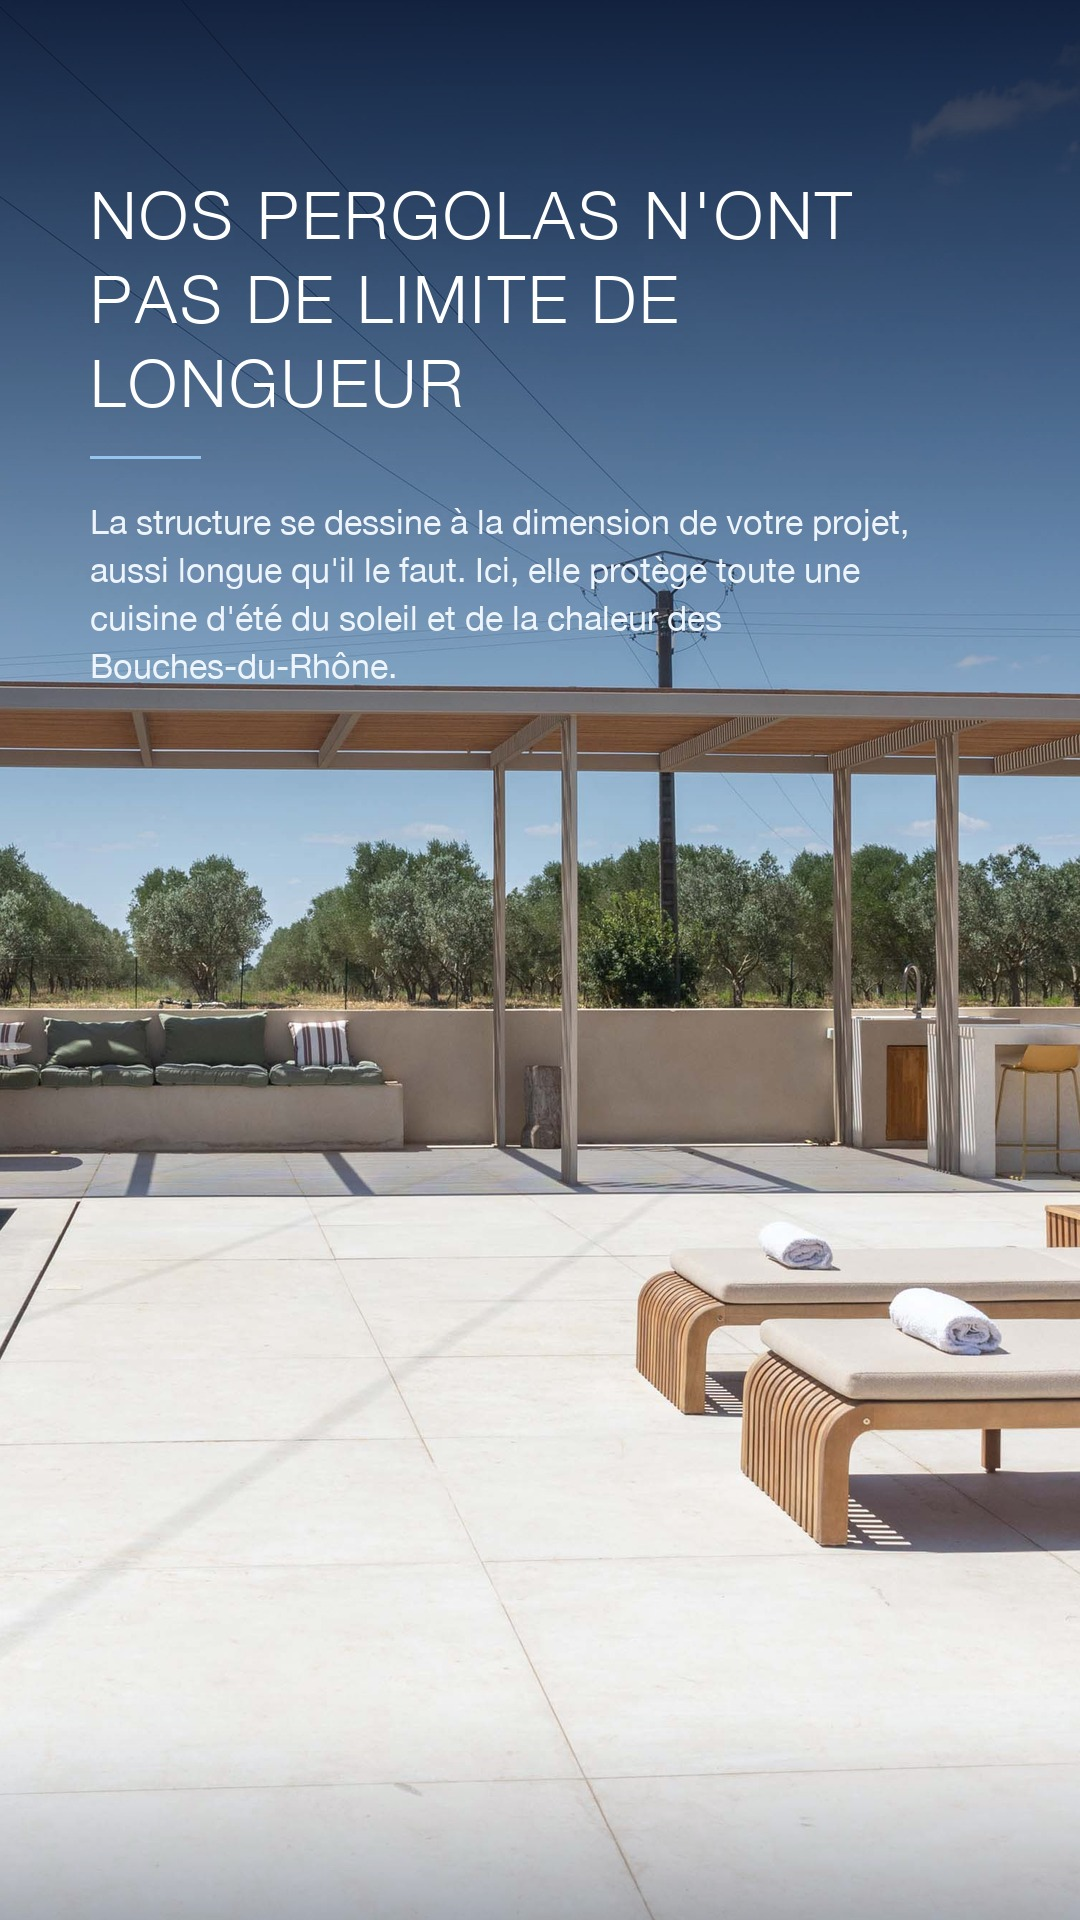
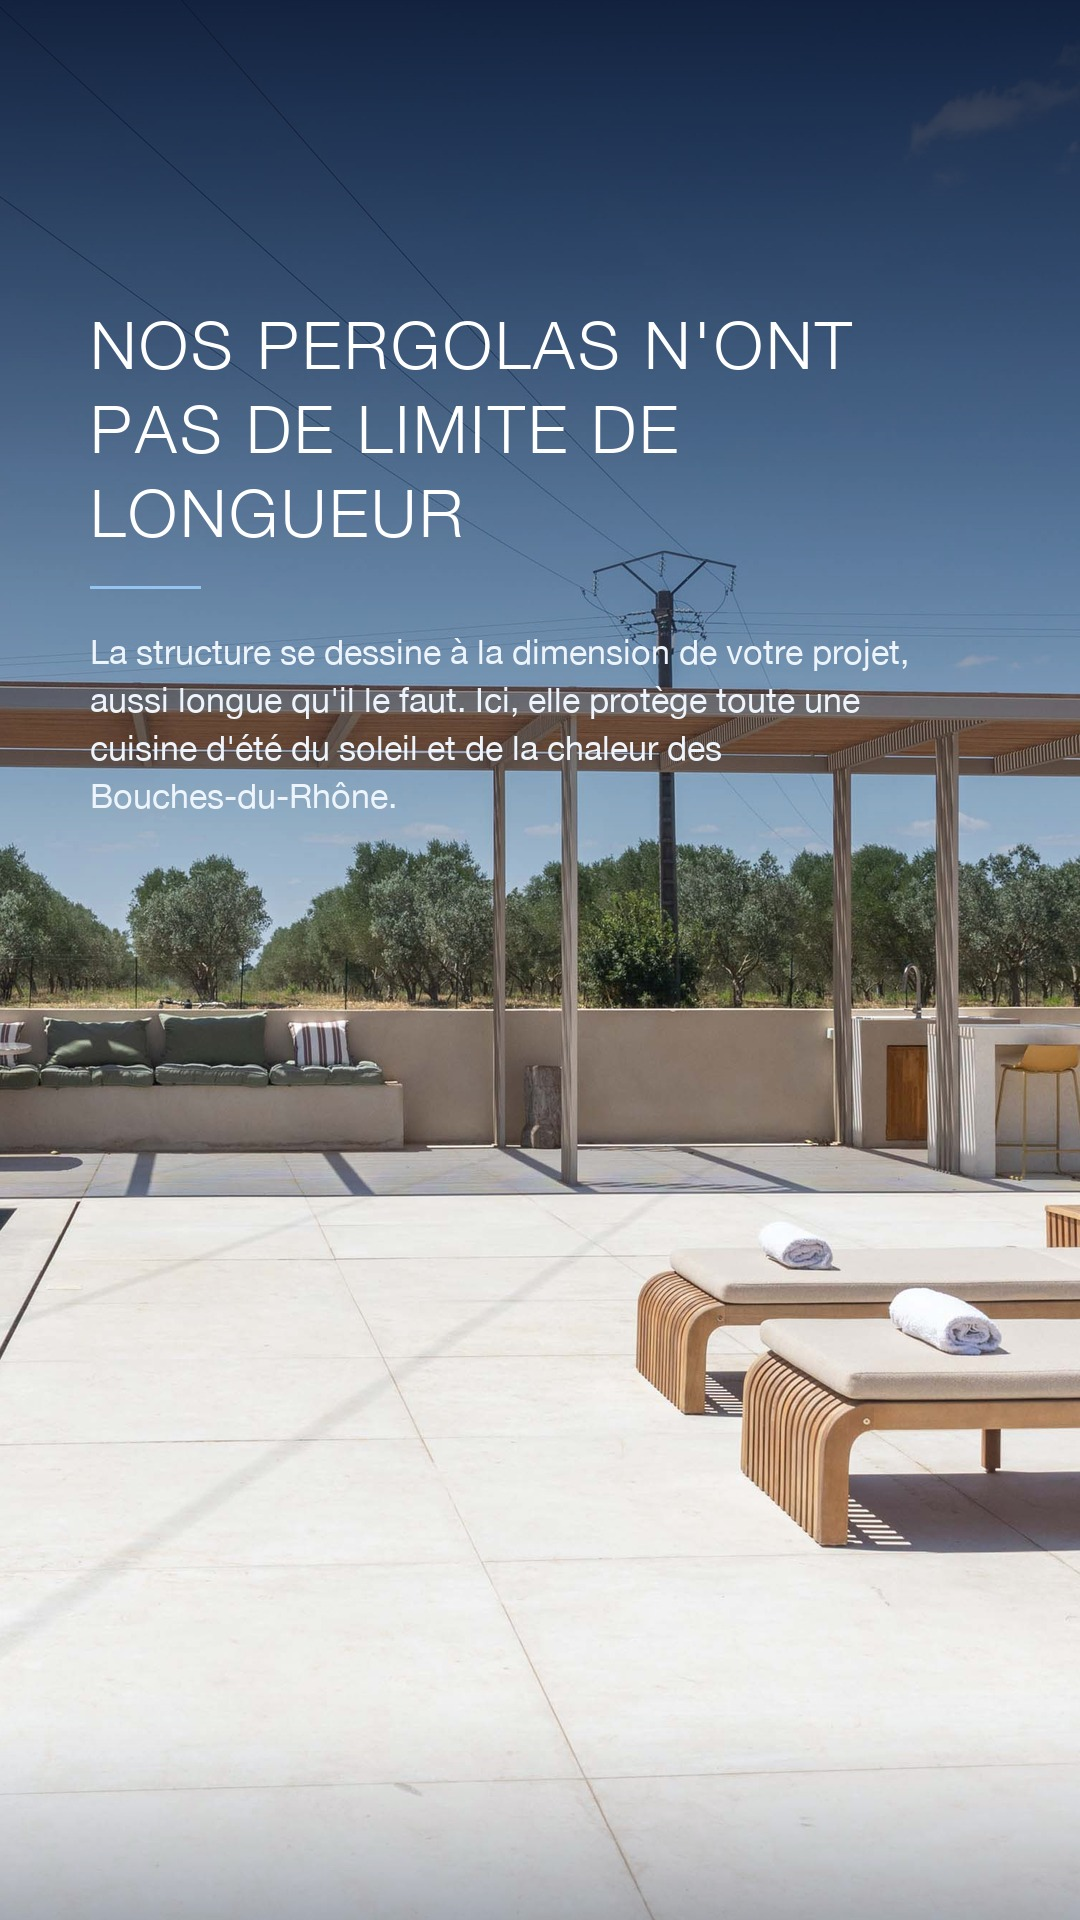
Stories #11 a #14 : le texte descend de 130 px
Sur un telephone, la barre de progression et la ligne de compte d'Instagram
mordaient sur le titre, qui partait a 175 px du haut. Tout le bloc descend de
130 px et le scrim s'etire d'autant, sinon les dernieres lignes se
retrouveraient sur la photo en clair et deviendraient illisibles.

Le texte etant incruste dans les JPG, les 4 maquettes sont regenerees depuis
leurs photos sources, retrouvees par appariement dans ~/Franck. Les 3 stories
standard sont reproduites au pixel pres par le generateur (ecart 0,00/255) ;
la #13, seule en mise en page liste, avait ete faite hors generateur : sa
geometrie et ses graisses (intitules Medium 38 interlettre a 2, descriptions
Regular 31, voile 10/30/67 a 150) sont relevees sur le fichier livre et
ajoutees au generateur, qui la reproduit desormais.

Le generateur ne regenere plus rien sans qu'on lui nomme les fichiers : les
stories deja publiees ont ete produites avant la descente et ne bougent pas.

Changed region(s): [[0.0611, 0.0938, 0.825, 0.4375]]

diff --git a/stories-maquettes/_generateur-stories.py b/stories-maquettes/_generateur-stories.py
@@ -9,6 +9,12 @@ Regular en écriture normale ; scrim sombre en haut pour la lisibilité ;
 surlignage possible d'un mot du titre en bleu Teck #0653A8 ; sortie 1080×1920.
 Un « \\n » dans le texte force un retour à la ligne. Aucune légende : le texte
 vit dans l'image. Réf : ../../DA-teck-amenagement.md et ../scripts-stories.md.
+
+17/08/2026 — DESCENTE. Le texte partait trop haut : sur un téléphone, la barre
+de progression et la ligne de compte d'Instagram mordaient sur le titre. Tout
+le bloc descend donc de 130 px, et le scrim s'étire d'autant, sinon les
+dernières lignes se retrouveraient sur la photo en clair. Les stories #11 à #14
+ont été régénérées à cette hauteur ; toute nouvelle story la reprend.
 """
 import os
 from PIL import Image, ImageDraw, ImageFont, ImageOps
@@ -16,8 +22,10 @@ from PIL import Image, ImageDraw, ImageFont, ImageOps
 OUT = os.path.dirname(os.path.abspath(__file__))
 FRANCK = os.path.expanduser("~/Franck")
 HN = "/System/Library/Fonts/HelveticaNeue.ttc"
-LIGHT, REG = 7, 0
+LIGHT, REG, MEDIUM = 7, 0, 10
 BLEU, CLAIR = (6, 83, 168), (150, 196, 240)
+BLANC, INFO = (255, 255, 255), (238, 244, 252)
+DESCENTE = 130
 
 
 def F(size, index=REG):
@@ -47,12 +55,13 @@ def track(d, x, y, txt, font, fill, sp=3):
     return x
 
 
-def story(image_path, titre, info, fname, highlight=None):
+def story(image_path, titre, info, fname, highlight=None, descente=DESCENTE):
     im = load(image_path)
+    haut = 900 + descente                 # le scrim descend avec le texte
     ov = Image.new("RGBA", (1080, 1920), (0, 0, 0, 0))
     od = ImageDraw.Draw(ov)
-    for y in range(0, 900):
-        od.line([(0, y), (1080, y)], fill=(8, 20, 45, int(230 * (1 - y / 900) ** 1.05)))
+    for y in range(0, haut):
+        od.line([(0, y), (1080, y)], fill=(8, 20, 45, int(230 * (1 - y / haut) ** 1.05)))
     for y in range(1680, 1920):
         od.line([(0, y), (1080, y)], fill=(8, 20, 45, int(85 * ((y - 1680) / 240) ** 1.6)))
     im = Image.alpha_composite(im.convert("RGBA"), ov).convert("RGB")
@@ -72,7 +81,7 @@ def story(image_path, titre, info, fname, highlight=None):
             out.append(c)
         return out
 
-    y = 175
+    y = 175 + descente
     for line in wrap(titre.upper(), ft, 900, 3):
         if highlight and highlight.upper() in line:
             pre = line.split(highlight.upper())[0]
@@ -91,17 +100,114 @@ def story(image_path, titre, info, fname, highlight=None):
     print("✓", fname)
 
 
+def liste(image_path, titre, sous_titre, items, fname, descente=DESCENTE):
+    """Variante « liste » (4 équipements) : voile bleu uni sur toute la hauteur
+       au lieu du scrim, titre + sous-titre, filet pleine largeur, puis une
+       entrée par équipement avec sa pastille. Intitulés en Medium 38
+       interlettré à 2, descriptions en Regular 31."""
+    im = load(image_path)
+    im = Image.alpha_composite(
+        im.convert("RGBA"), Image.new("RGBA", (1080, 1920), (10, 30, 67, 150))
+    ).convert("RGB")
+    d = ImageDraw.Draw(im)
+    ft, fs, fit, fid = F(66, LIGHT), F(34, REG), F(38, MEDIUM), F(31, REG)
+
+    def wrap(txt, f, mw, sp=0):
+        out = []
+        for para in txt.split("\n"):
+            c = ""
+            for w_ in para.split():
+                s = (c + " " + w_).strip()
+                if d.textlength(s, font=f) + sp * len(s) <= mw:
+                    c = s
+                else:
+                    out.append(c); c = w_
+            out.append(c)
+        return out
+
+    y = 170 + descente
+    for line in wrap(titre.upper(), ft, 900, 3):
+        track(d, 90, y, line, ft, BLANC, 3)
+        y += 84
+    track(d, 90, y + 21, sous_titre.upper(), fs, CLAIR, 3)
+    d.rectangle([90, 432 + descente, 990, 433 + descente], fill=BLANC)
+
+    # (y de l'intitulé, y de la 1re ligne de description, y du filet séparateur)
+    for (yt, yd, ysep), (nom, desc) in zip(
+            [(509, 562, 665), (695, 748, 811), (841, 896, 957), (987, 1040, None)],
+            items):
+        yt, yd = yt + descente, yd + descente
+        d.ellipse([89, yt + 23 - 29, 147, yt + 23 + 29], outline=CLAIR, width=3)
+        track(d, 180, yt, nom.upper(), fit, BLANC, 2)
+        for i, line in enumerate(wrap(desc, fid, 780)):
+            d.text((180, yd + i * 42), line, font=fid, fill=INFO)
+        if ysep:
+            d.rectangle([180, ysep + descente, 990, ysep + descente], fill=BLANC)
+    im.save(os.path.join(OUT, fname), quality=92)
+    print("✓", fname)
+
+
 # (chemin image sous ~/Franck, TITRE, texte, sortie, [mot à surligner]).
 # ⛔ Vérifier chaque photo : AUCUN voile de coco (cf. DA).
 D = os.path.join(FRANCK, "New projet/Dansou BD")
 V = os.path.join(FRANCK, "Lilian Vila impian copie")
+G = os.path.join(FRANCK, "Galerie Teck Aménagement/Photos réalisation 7 12 2025")
 STORIES = [
     (os.path.join(V, "_LVM1721.jpg"), "Le détail qu'on ne voit qu'au soleil",
      "La finition de nos structures est un sable texturé.\nAu soleil, de fines "
      "paillettes d'aluminium l'illuminent et lui donnent toute sa profondeur.",
      "S3-detail-au-soleil.jpg"),
+    # Stories #11, #12 et #14, régénérées le 17/08/2026 pour la descente.
+    (os.path.join(G, "Goguet Vinet/Selection Gabrielle/stcannat_gvt (41).jpg"),
+     "Teck Aménagement, ce n'est pas que la pergola",
+     "Ici, nous avons aussi construit la terrasse. Un extérieur se pense dans "
+     "son ensemble : la plage de piscine, les espaces cosy et partout le charme du bois.",
+     "S5-amenagement-densemble.jpg"),
+    (os.path.join(G, "Bongiovanni/Sélection franck/1 bongiov_gvoinot_31.JPG"),
+     "Elle ne s'ajoute pas à la maison, elle la prolonge",
+     "Chaque pergola est dessinée pour une façade, une orientation, un jardin. "
+     "C'est ce qui fait qu'elle semble avoir toujours été là.",
+     "S7-prolonge-la-maison.jpg"),
+    (os.path.join(G, "RIERA/Selection Franck/riera_teck_gvt_31.jpg"),
+     "Nos pergolas n'ont pas de limite de longueur",
+     "La structure se dessine à la dimension de votre projet, aussi longue "
+     "qu'il le faut. Ici, elle protège toute une cuisine d'été du soleil et de "
+     "la chaleur des Bouches-du-Rhône.",
+     "S-SANS-LIMITE.jpg"),
+]
+
+# Story #13, la seule en mise en page « liste ».
+LISTES = [
+    (os.path.join(D, "dans_teck_gvoinot_w_3.jpg"),
+     "Habiller votre pergola", "dans chaque détail.",
+     [("Les voilages",
+       "En lin ou en coton, noués aux poteaux, à déplier quand le soleil tourne."),
+      ("La guirlande",
+       "Accrochée aux carrelets, pour les soirées qui s'étirent."),
+      ("Le claustra",
+       "Il filtre le regard sans jamais enfermer l'espace."),
+      ("L'éclairage",
+       "Pensé et réglé avec vous, jusqu'à la tombée de la nuit.")],
+     "S-LISTE-habiller-votre-pergola.jpg"),
 ]
 
 if __name__ == "__main__":
+    # Sans argument on n'écrase rien : les stories déjà publiées ont été
+    # produites avant la descente du 17/08 et n'ont pas à bouger. On passe
+    # les fichiers à (re)générer, ex. :
+    #   python3 _generateur-stories.py S5-amenagement-densemble.jpg
+    import sys
+
+    voulus = set(sys.argv[1:])
+    if not voulus:
+        print("Rien à faire. Fichiers connus :")
+        for a in STORIES:
+            print("   ", a[3])
+        for a in LISTES:
+            print("   ", a[4])
     for args in STORIES:
-        story(*args)
+        if args[3] in voulus:
+            story(*args)
+    for args in LISTES:
+        if args[4] in voulus:
+            liste(*args)
